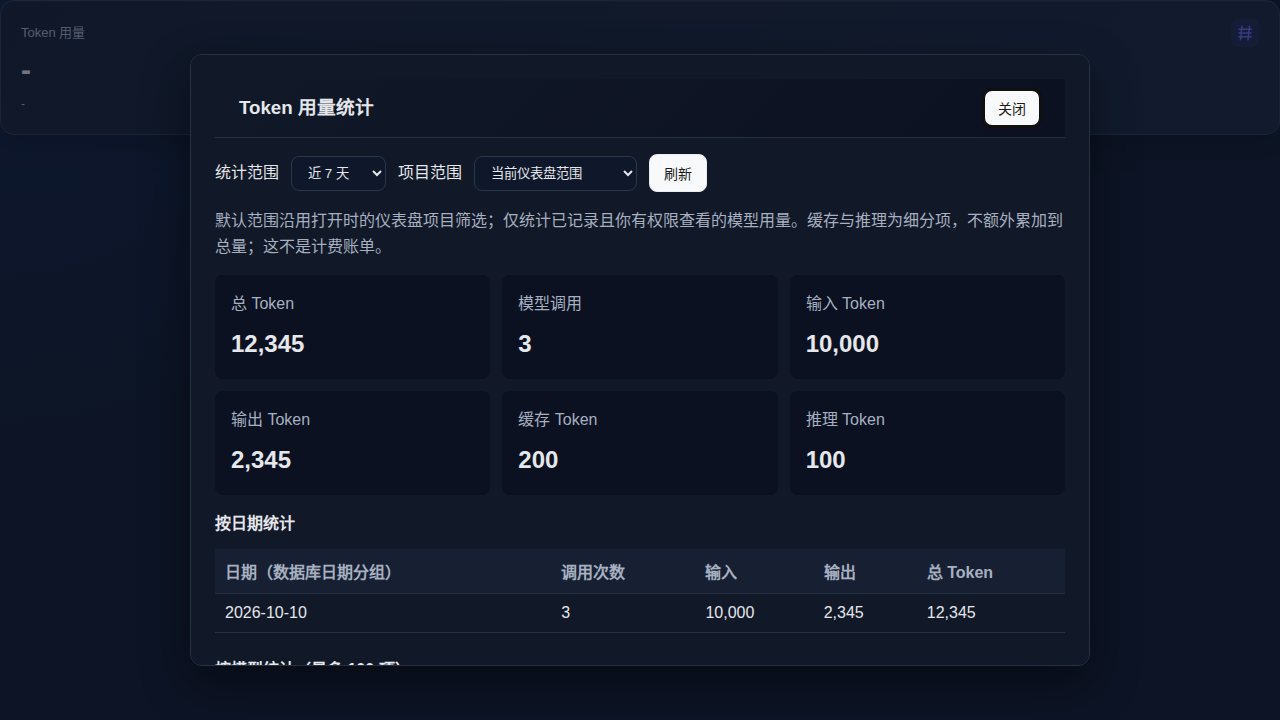
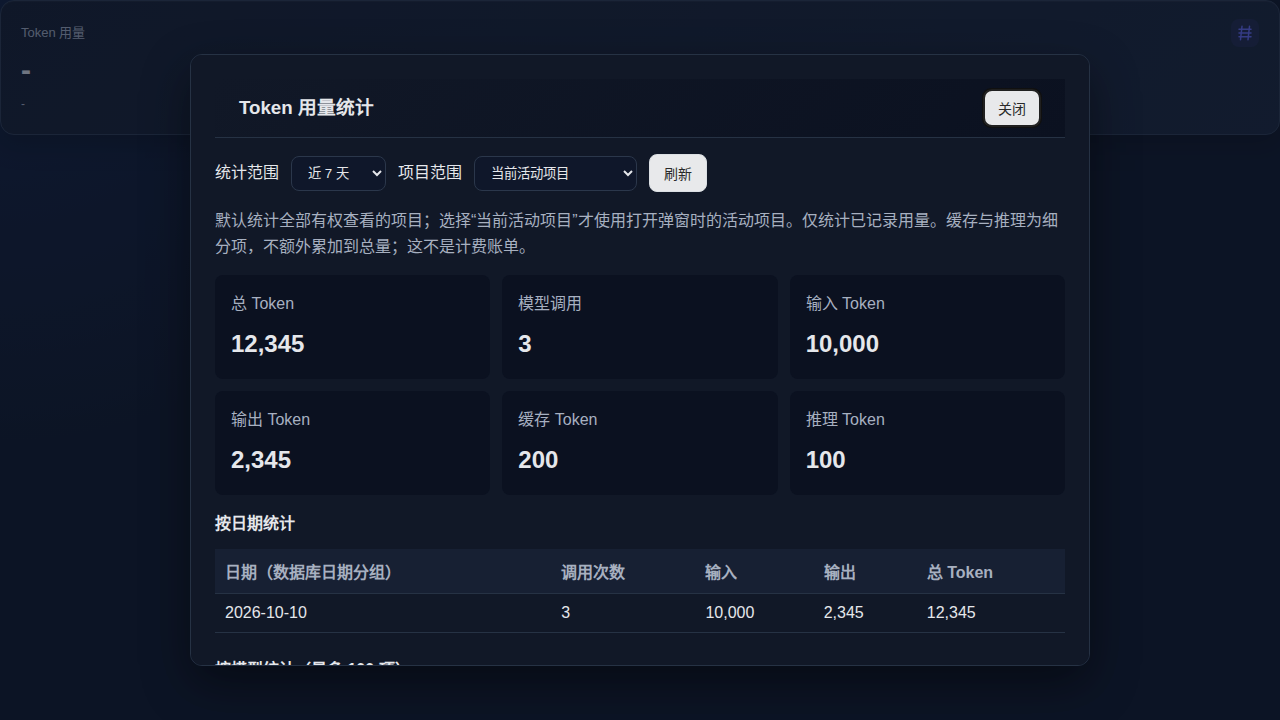
fix(dashboard): avoid implicit project scope in token totals
Default token statistics to all accessible projects with explicit scoping.

Changed region(s): [[0.1562, 0.2139, 0.8438, 0.3667]]

diff --git a/web/static/js/dashboard.js b/web/static/js/dashboard.js
@@ -162,7 +162,7 @@ async function refreshDashboard() {
             fetchJson(dashboardProjectScopedUrl('/api/c2/tasks?page=1&page_size=1')),
             fetchJson('/api/projects/dashboard-summary?fact_limit=10'),
             selectedSeverityStatus ? fetchJson('/api/vulnerabilities/stats?status=' + encodeURIComponent(selectedSeverityStatus)) : Promise.resolve(null),
-            fetchJson(dashboardProjectScopedUrl('/api/usage/tokens?days=7&limit=5'))
+            fetchJson('/api/usage/tokens?days=7&limit=5')
         ]);
 
         // 如果在 await 期间 controller 已被 abort，说明又有新刷新启动了，丢弃本次结果
@@ -719,7 +719,7 @@ function renderDashboardTokenUsage(res) {
     const today = res && res.today ? Number(res.today.totalTokens || 0) : 0;
     if (!Number.isFinite(total) || total <= 0) {
         setEl('dashboard-kpi-token-usage', '0');
-        setKpiSubText('dashboard-kpi-token-sub-text', (typeof getActiveProjectId === 'function' && getActiveProjectId() ? '当前项目近 7 天无已记录用量' : '当前可见范围近 7 天无已记录用量'));
+        setKpiSubText('dashboard-kpi-token-sub-text', dt('dashboard.noTokenUsageInRange', null, '全部可见项目近 7 天无已记录用量'));
         return;
     }
     setEl('dashboard-kpi-token-usage', formatTokenUsageCompact(total));
@@ -782,9 +782,9 @@ function openDashboardTokenUsage() {
     const scopeURL = dashboardProjectScopedUrl('/api/usage/tokens?limit=100');
     const scopeLabel = make('label', label('项目范围', 'Project scope'));
     const scope = make('select'); scope.id = 'dashboard-token-scope'; scopeLabel.htmlFor = scope.id;
-    [['current', label('当前仪表盘范围', 'Current dashboard scope')], ['all', label('全部有权查看的项目', 'All accessible projects')]].forEach(([value, text]) => { const option = make('option', text); option.value = value; scope.append(option); });
+    [['all', label('全部有权查看的项目', 'All accessible projects')], ['current', label('当前活动项目', 'Current active project')]].forEach(([value, text]) => { const option = make('option', text); option.value = value; scope.append(option); });
     controls.insertBefore(scopeLabel, retry); controls.insertBefore(scope, retry);
-    const note = make('p', label('默认范围沿用打开时的仪表盘项目筛选；仅统计已记录且你有权限查看的模型用量。缓存与推理为细分项，不额外累加到总量；这不是计费账单。', 'Uses the dashboard project filter at opening and only recorded usage you may access. Cache and reasoning are breakdowns, not additions to the total; this is not a billing statement.'), 'dashboard-token-note');
+    const note = make('p', label('默认统计全部有权查看的项目；选择“当前活动项目”才使用打开弹窗时的活动项目。仅统计已记录用量。缓存与推理为细分项，不额外累加到总量；这不是计费账单。', 'Defaults to all accessible projects. Current active project uses the project at opening. Only recorded usage is counted. Cache and reasoning are breakdowns, not additions to the total; this is not a billing statement.'), 'dashboard-token-note');
     dialog.append(header, controls, note, status, content);
     document.body.append(dialog);
     let controller, timeout, generation = 0;
